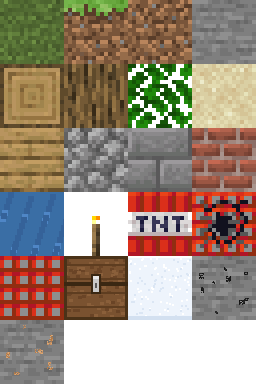
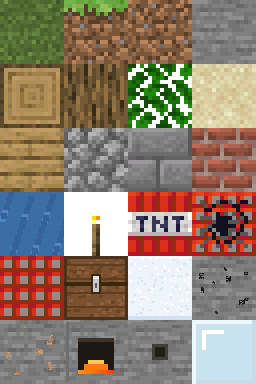
feat(items): furnace/glass blocks, iron items + tools, coal (furnace phase A)
Foundation for smelting (the furnace itself does nothing yet — phase B adds the
block-entity + server-ticked smelting + UI panel).

Blocks: B_FURNACE (17), B_GLASS (18) — placeable (is_block widened), craftable
(cobble ring -> furnace; sand->glass is a phase-B smelt). Glass renders as a
solid frosted block for now (true see-through needs alpha-blend meshing).

Items: I_COAL (coal ore now drops coal, the fuel), I_IRON_INGOT, I_COOKED_PORK,
and an iron TOOL tier — I_IRON_PICKAXE/SWORD/SHOVEL that mine their category
~1.75x faster than wood (break_time tier logic). Recipes: iron tools (ingot +
sticks) and the bucket now costs iron ingots (sim_test updated).

Wiring: item_name/color/tile + en/hu lang for all new items; mesh tile_for +
atlas tiles 21-23; resolve_item ceiling bumped to 33. Art: new atlas painter
(furnace front/top, glass) + a new items.png painter (8 icons, grew items.png
to 6 rows); iron tools recolor the wood-tool sprites, cooked pork darkens raw.

Verified: /give resolves all new items, hotbar icons render, sim_test recipes
+ full battery green.

Changed region(s): [[0.25, 0.8125, 1.0, 1.0]]

diff --git a/src/inventory.c b/src/inventory.c
@@ -11,9 +11,12 @@ Stack cursor_stack;
 
 bool is_tool(int id) {
   return id == I_SHOVEL || id == I_PICKAXE || id == I_SWORD
-      || id == I_BUCKET || id == I_WATER_BUCKET || id == I_LAVA_BUCKET;
+      || id == I_BUCKET || id == I_WATER_BUCKET || id == I_LAVA_BUCKET
+      || id == I_IRON_PICKAXE || id == I_IRON_SWORD || id == I_IRON_SHOVEL;
 }
-bool is_block(int id) { return id >= B_GRASS && id <= B_TNT; }
+// placeable blocks: the original range (grass..tnt) plus the new craftable
+// blocks (furnace, glass). Snow/ores stay natural-only (not placeable).
+bool is_block(int id) { return (id >= B_GRASS && id <= B_TNT) || id == B_FURNACE || id == B_GLASS; }
 int  stack_max(int id) { return is_tool(id) ? 1 : STACK_MAX; }
 
 int item_count(int id) {
@@ -46,7 +49,8 @@ bool remove_item(int id, int n) {
 int drop_of(int block) {
   if (block == B_GRASS) return B_DIRT;
   if (block == B_STONE) return B_COBBLE;
-  return block;
+  if (block == B_COAL_ORE) return I_COAL;      // coal ore -> coal item (fuel)
+  return block;                                // iron ore drops itself (smelt -> ingot)
 }
 
 // Localized names via assets/lang/<code>.lang (see lang.c).
@@ -65,6 +69,11 @@ const char *item_name(int id) {
     case I_SWORD: return tr("item.sword");        case I_BUCKET: return tr("item.bucket");
     case I_WATER_BUCKET: return tr("item.water_bucket"); case I_PORK: return tr("item.pork");
     case I_STICK: return tr("item.stick");        case I_LAVA_BUCKET: return tr("item.lava_bucket");
+    case B_FURNACE: return tr("item.furnace");    case B_GLASS: return tr("item.glass");
+    case I_COAL: return tr("item.coal");          case I_IRON_INGOT: return tr("item.iron_ingot");
+    case I_COOKED_PORK: return tr("item.cooked_pork");
+    case I_IRON_PICKAXE: return tr("item.iron_pickaxe"); case I_IRON_SWORD: return tr("item.iron_sword");
+    case I_IRON_SHOVEL: return tr("item.iron_shovel");
     default: return "?";
   }
 }
@@ -81,6 +90,10 @@ void item_color(int id, uint8_t rgb[3]) {
     case B_SNOW: c = 0xf4f8ff; break;
     case B_COAL_ORE: c = 0x4a4a4a; break; case B_IRON_ORE: c = 0xc8a082; break;
     case B_TNT: c = 0xc0392b; break;  case I_LAVA_BUCKET: c = 0xe2560f; break;
+    case B_FURNACE: c = 0x6f6f6f; break; case B_GLASS: c = 0xbfe0f0; break;
+    case I_COAL: c = 0x1c1c1c; break; case I_IRON_INGOT: c = 0xd8d8e0; break;
+    case I_COOKED_PORK: c = 0xc07845; break;
+    case I_IRON_PICKAXE: case I_IRON_SWORD: case I_IRON_SHOVEL: c = 0xcfd2da; break;
     default: c = 0xccaa88; break;
   }
   rgb[0] = (uint8_t)(c >> 16); rgb[1] = (uint8_t)(c >> 8); rgb[2] = (uint8_t)c;
@@ -95,6 +108,9 @@ int item_tile(int id) {
     case B_STONE: return 9;   case B_COBBLE: return 10; case B_DIRT: return 11;
     case B_TORCH: return 12;  case B_LEAVES: return 13; case I_LAVA_BUCKET: return 14;
     case B_TNT: return 15;
+    case I_COAL: return 16;   case I_IRON_INGOT: return 17; case I_COOKED_PORK: return 18;
+    case I_IRON_PICKAXE: return 19; case I_IRON_SWORD: return 20; case I_IRON_SHOVEL: return 21;
+    case B_FURNACE: return 22; case B_GLASS: return 23;
     default: return -1;
   }
 }
@@ -103,6 +119,7 @@ int item_tile(int id) {
 #define P B_PLANKS
 #define C B_COBBLE
 #define S I_STICK
+#define Ir I_IRON_INGOT
 const Recipe RECIPES[] = {
   { .h = 0, .w = 0, .shapeless = { B_WOOD }, .n_shapeless = 1, .out_id = P, .out_n = 4 },
   { .shape = {{P},{P}},            .h = 2, .w = 1, .out_id = S, .out_n = 4 },
@@ -111,13 +128,18 @@ const Recipe RECIPES[] = {
   { .shape = {{P,P,P},{0,S,0},{0,S,0}}, .h = 3, .w = 3, .out_id = I_PICKAXE, .out_n = 1 },
   { .shape = {{P},{S},{S}},        .h = 3, .w = 1, .out_id = I_SHOVEL, .out_n = 1 },
   { .shape = {{P},{P},{S}},        .h = 3, .w = 1, .out_id = I_SWORD, .out_n = 1 },
-  { .shape = {{C,0,C},{0,C,0}},    .h = 2, .w = 3, .out_id = I_BUCKET, .out_n = 1 },
+  { .shape = {{Ir,0,Ir},{0,Ir,0}}, .h = 2, .w = 3, .out_id = I_BUCKET, .out_n = 1 },
   { .shape = {{P},{S}},            .h = 2, .w = 1, .out_id = B_TORCH, .out_n = 4 },
   { .shape = {{P,P,P},{P,0,P},{P,P,P}}, .h = 3, .w = 3, .out_id = B_CHEST, .out_n = 1 },
+  { .shape = {{C,C,C},{C,0,C},{C,C,C}}, .h = 3, .w = 3, .out_id = B_FURNACE, .out_n = 1 },
+  { .shape = {{Ir,Ir,Ir},{0,S,0},{0,S,0}}, .h = 3, .w = 3, .out_id = I_IRON_PICKAXE, .out_n = 1 },
+  { .shape = {{Ir},{S},{S}},       .h = 3, .w = 1, .out_id = I_IRON_SHOVEL, .out_n = 1 },
+  { .shape = {{Ir},{Ir},{S}},      .h = 3, .w = 1, .out_id = I_IRON_SWORD, .out_n = 1 },
 };
 #undef P
 #undef C
 #undef S
+#undef Ir
 const int N_RECIPES = (int)(sizeof(RECIPES) / sizeof(RECIPES[0]));
 
 // trimGrid + shapedMatch (game.js:1772-1789)

diff --git a/src/interact.c b/src/interact.c
@@ -21,6 +21,7 @@ static float break_time_base(uint8_t b) {
     case B_STONE: case B_STONE_BRICK: return 1.4f;
     case B_COBBLE: case B_BRICK: return 1.2f;
     case B_COAL_ORE: case B_IRON_ORE: return 1.6f;
+    case B_FURNACE: return 1.5f;   case B_GLASS: return 0.3f;
     case B_TORCH: return 0.1f; case B_CHEST: return 0.9f; case B_TNT: return 0.3f;
     default: return 1.0f;
   }
@@ -29,15 +30,25 @@ static int tool_for(uint8_t b) {
   switch (b) {
     case B_DIRT: case B_GRASS: case B_SAND: case B_SNOW: return I_SHOVEL;
     case B_STONE: case B_COBBLE: case B_STONE_BRICK: case B_BRICK:
-    case B_COAL_ORE: case B_IRON_ORE: return I_PICKAXE;
+    case B_COAL_ORE: case B_IRON_ORE: case B_FURNACE: return I_PICKAXE;
     default: return 0;
   }
 }
+// wood and iron tools share a category; iron is the faster tier.
+static int tool_cat(int id) {
+  if (id == I_PICKAXE || id == I_IRON_PICKAXE) return I_PICKAXE;
+  if (id == I_SHOVEL  || id == I_IRON_SHOVEL)  return I_SHOVEL;
+  if (id == I_SWORD   || id == I_IRON_SWORD)   return I_SWORD;
+  return 0;
+}
+static bool is_iron_tool(int id) {
+  return id == I_IRON_PICKAXE || id == I_IRON_SHOVEL || id == I_IRON_SWORD;
+}
 static float break_time_for(uint8_t block) {
   float t = break_time_base(block);
-  Stack *held = &slots[sel_slot];
-  if (held->id && tool_for(block) == held->id) t *= 0.35f;
-  else if (held->id == I_SWORD && block == B_LEAVES) t *= 0.5f;
+  int held = slots[sel_slot].id, need = tool_for(block);
+  if (need && tool_cat(held) == need) t *= is_iron_tool(held) ? 0.2f : 0.35f;   // iron faster
+  else if (tool_cat(held) == I_SWORD && block == B_LEAVES) t *= is_iron_tool(held) ? 0.35f : 0.5f;
   return t;
 }
 

diff --git a/src/mesh.c b/src/mesh.c
@@ -19,6 +19,7 @@ enum {
   T_PLANKS = 8, T_COBBLE = 9, T_STONE_BRICK = 10, T_BRICK = 11,
   T_WATER = 12, T_TORCH = 13, T_TNT_SIDE = 14, T_TNT_TOP = 15,
   T_TNT_BOTTOM = 16, T_CHEST = 17, T_SNOW = 18, T_COAL_ORE = 19, T_IRON_ORE = 20,
+  T_FURNACE_FRONT = 21, T_FURNACE_TOP = 22, T_GLASS = 23,
 };
 
 // face: 0=top 1=bottom 2=side (JS uses strings)
@@ -41,6 +42,8 @@ static int tile_for(uint8_t block, int face) {
     case B_SNOW:   return T_SNOW;
     case B_COAL_ORE: return T_COAL_ORE;
     case B_IRON_ORE: return T_IRON_ORE;
+    case B_FURNACE: return face == F_SIDE ? T_FURNACE_FRONT : T_FURNACE_TOP;
+    case B_GLASS:  return T_GLASS;
     case B_TNT:    return face == F_TOP ? T_TNT_TOP : face == F_BOTTOM ? T_TNT_BOTTOM : T_TNT_SIDE;
     default:       return T_STONE;
   }

diff --git a/tests/sim_test.c b/tests/sim_test.c
@@ -82,8 +82,8 @@ int main(void) {
   for (int i = 0; i < 9; i++) if (i != 4) craft_grid[i] = (Stack){ B_PLANKS, 1 };
   CHECK(match_recipe(&oid, &on) && oid == B_CHEST && on == 1, "shaped with hole: 8-plank ring -> chest");
   memset(craft_grid, 0, sizeof(craft_grid));
-  craft_grid[0] = (Stack){ B_COBBLE, 1 }; craft_grid[2] = (Stack){ B_COBBLE, 1 }; craft_grid[4] = (Stack){ B_COBBLE, 1 };
-  CHECK(match_recipe(&oid, &on) && oid == I_BUCKET, "shaped with holes: bucket V");
+  craft_grid[0] = (Stack){ I_IRON_INGOT, 1 }; craft_grid[2] = (Stack){ I_IRON_INGOT, 1 }; craft_grid[4] = (Stack){ I_IRON_INGOT, 1 };
+  CHECK(match_recipe(&oid, &on) && oid == I_BUCKET, "shaped with holes: iron bucket V");
 
   // 8) inventory add/remove round trip
   memset(slots, 0, sizeof(slots));

diff --git a/src/ui.c b/src/ui.c
@@ -299,7 +299,7 @@ static void draw_panel(void) {
 
 // ============================== chat & commands ==============================
 static int resolve_item(const char *name) {
-  for (int id = 1; id <= 27; id++) {
+  for (int id = 1; id <= 33; id++) {   // spans blocks (1..18) + items (20..33)
     const char *n = item_name(id);
     if (strcmp(n, "?") == 0) continue;
     bool eq = true;

diff --git a/src/inventory.h b/src/inventory.h
@@ -14,6 +14,12 @@
 #define I_PORK         25
 #define I_STICK        26
 #define I_LAVA_BUCKET  27
+#define I_COAL         28
+#define I_IRON_INGOT   29
+#define I_COOKED_PORK  30
+#define I_IRON_PICKAXE 31
+#define I_IRON_SWORD   32
+#define I_IRON_SHOVEL  33
 
 #define HOTBAR_SIZE 9
 #define INV_SIZE    36

diff --git a/src/config.h b/src/config.h
@@ -28,6 +28,8 @@
 #define B_SNOW        14
 #define B_COAL_ORE    15
 #define B_IRON_ORE    16
+#define B_FURNACE     17
+#define B_GLASS       18
 
 // Water array semantics: 0 none, 1..8 flowing water, 9 source,
 // 11..18 flowing lava, 19 lava source.

diff --git a/CLAUDE.md b/CLAUDE.md
@@ -58,4 +58,4 @@ gcc/mingw32-make come from WinLibs (winget, not on PATH in every shell — see m
 - raylib-web resizes the canvas behind GLFW's back → main.c pushes CSS size through SetWindowSize each change or mouse coords scale wrong (fullscreen bug).
 - wasm connect is async — never retry ws_connect every frame (stacks CONNECTING sockets); backoff schedule handles it.
 - Headless testing: playwright + system Edge (`--use-angle=swiftshader --enable-unsafe-swiftshader`); synthetic key/mouse presses must be HELD ~80 ms or raylib's edge detector misses them.
-- Asset staleness (fixed, keep it that way): native copies assets via the always-run `copy_assets` target (a POST_BUILD copy silently skips when the exe is up to date); wasm bakes assets into craft.data at LINK time, so the web target has LINK_DEPENDS on assets/* (new asset FILES still need a reconfigure — glob). atlas.png tile 17 = chest (tools/patch_atlas_chest.mjs), 18 = snow (patch_atlas_snow.mjs), 19 = coal ore, 20 = iron ore (patch_atlas_ores.mjs, which grew the atlas to 6 rows / 256x384); the legacy craft_js make_atlas.js only knows tiles 0-13. mesh.c auto-detects ATLAS_ROWS from the PNG height, so new tiles can grow the atlas a row.
+- Asset staleness (fixed, keep it that way): native copies assets via the always-run `copy_assets` target (a POST_BUILD copy silently skips when the exe is up to date); wasm bakes assets into craft.data at LINK time, so the web target has LINK_DEPENDS on assets/* (new asset FILES still need a reconfigure — glob). atlas.png tile 17 = chest (tools/patch_atlas_chest.mjs), 18 = snow (patch_atlas_snow.mjs), 19 = coal ore, 20 = iron ore (patch_atlas_ores.mjs, which grew the atlas to 6 rows / 256x384), 21 = furnace front, 22 = furnace top, 23 = glass (patch_atlas_furnace.mjs); the legacy craft_js make_atlas.js only knows tiles 0-13. mesh.c auto-detects ATLAS_ROWS from the PNG height, so new tiles can grow the atlas a row. items.png (inventory/drop icons, 4-col grid, entities.c auto-detects rows) tiles 16-23 = coal/iron ingot/cooked pork/iron pickaxe/sword/shovel/furnace/glass (tools/patch_items.mjs, grew it to 256x384). New block ids must be inside `is_block`'s placeable check (inventory.c) or they can't be placed; `/give` scans ids up to a hardcoded ceiling in ui.c resolve_item.
